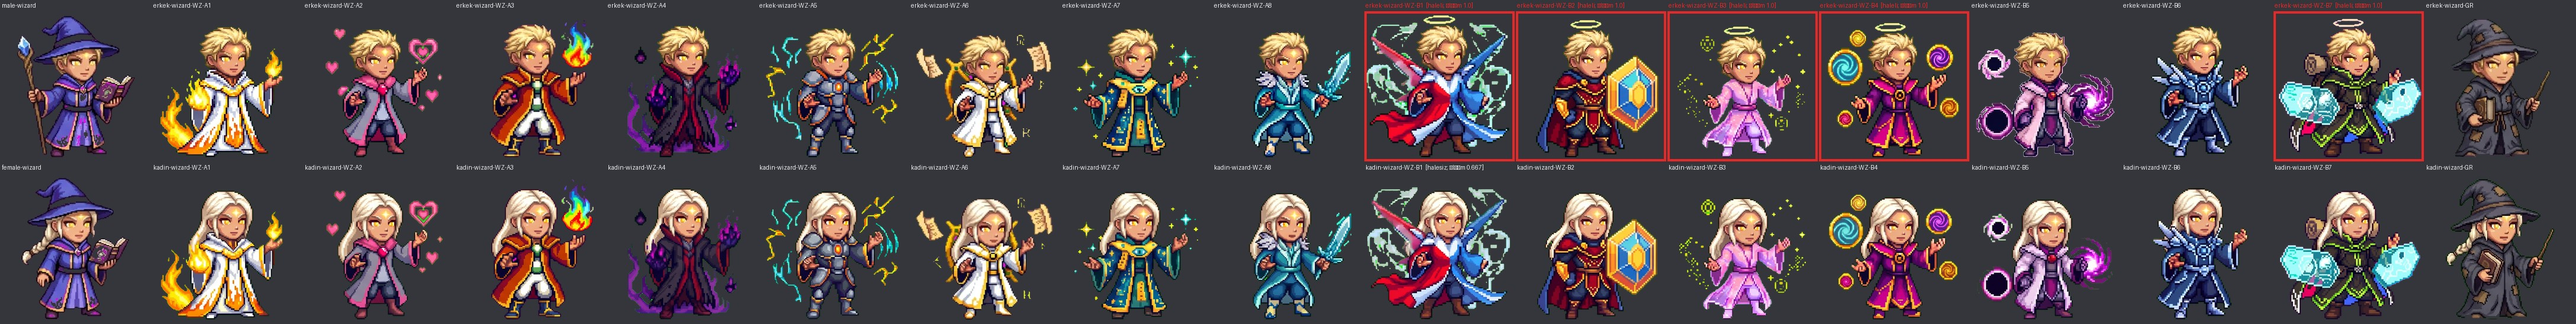
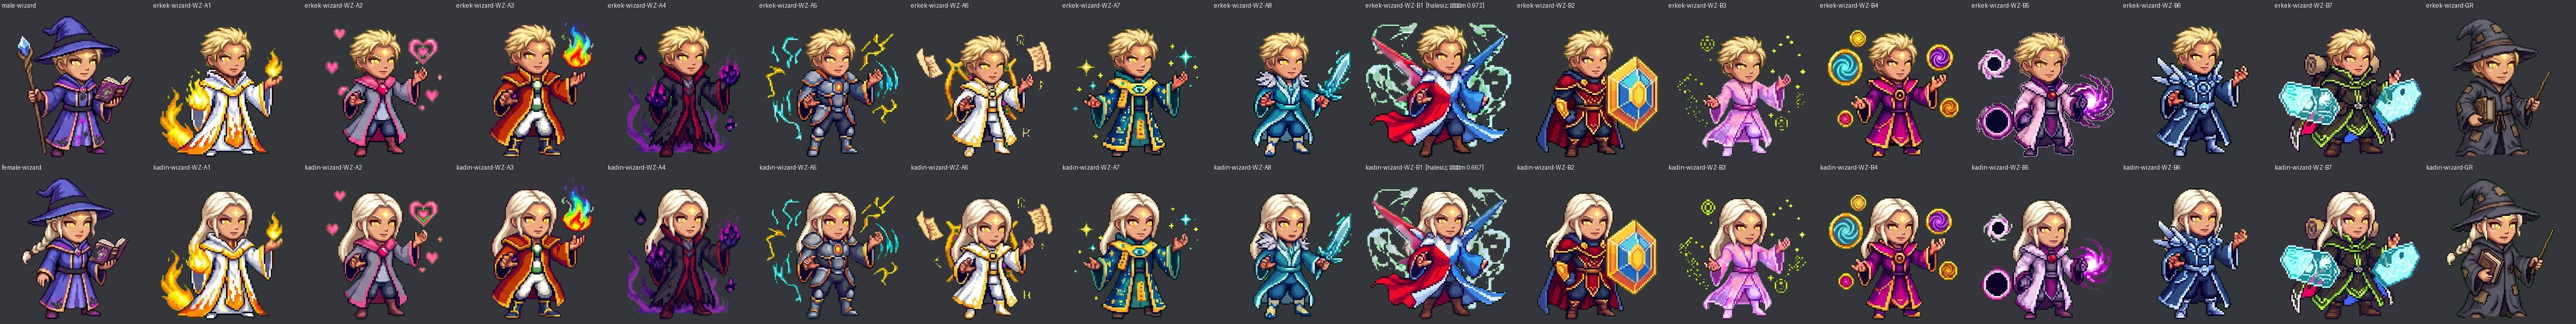
Erkek Celestial Wizard WZ-B1/B2/B3/B4/B7: 2360265b halesiz hâli uygulandı, B2/B3 çizgi kalıntısı silindi
Varyantın opak pikselleri mevcut jetonla aynı; yalnız baş üstü bölgesi alındı (scripts/wzb-halesiz.py), B2 4 px ve B3 17 px hale çizgisi ile B1/B7 tek piksel kırıntı silindi. Düzeltme önceliğiyle deftere yazıldı, taç bekleme listesinden çıktı, taç konumu yeniden üretildi. Celestial jetonlarında ten maskesi yok (üretilecek maske yok). Önce/sonra 4x docs/sabah/celestial-final/wzb-duzeltme/. Final: 290 Celestial jetonun hepsi halesiz.

Claude-Session: https://claude.ai/code/session_01VVQfWy7Gxh4PHzxq6UKvoy

diff --git a/scripts/wzb-halesiz.py b/scripts/wzb-halesiz.py
@@ -1,0 +1,40 @@
+#!/usr/bin/env python3
+"""Erkek Celestial Wizard WZ-B1/B2/B3/B4/B7 halesiz uygulama (2026-11-19). Kaynak: git 2360265b public/characters/halesiz/<ad>.webp (KQ6-12
+programla hale silinmiş varyant; opak pikseller mevcut jetonla bire bir aynı, fark yalnız başın üstü). Uygulama: mevcut jeton + varyantın
+baş tepesi + 25 satıra kadarki kısmı; başın üstünde gövdeye bağlı olmayan küçük hale kalıntıları (B2: 4 px, B3: 17 px çizgi; B1/B7 tek piksel kırıntı)
+KALINTI listesindeki kutularla silinir. Öncelik defterine `duzeltme` (dosya git:2360265b) yazılır. Önce/sonra 4× docs/sabah/celestial-final/wzb-duzeltme/.
+`python3 scripts/wzb-halesiz.py`"""
+import importlib.util, io, os, subprocess
+import numpy as np
+from PIL import Image, ImageDraw
+from scipy import ndimage as ndi
+_s = importlib.util.spec_from_file_location('cc', 'scripts/cc-kesim.py'); cc = importlib.util.module_from_spec(_s); _s.loader.exec_module(cc)
+REF = '2360265b'
+# jeton kodu → silinecek kalıntı kutuları (x0, y0, x1, y1; yalnız gövdeye bağlı olmayan pikseller)
+KALINTI = {'B1': [(146, 12, 151, 17)], 'B2': [(110, 26, 121, 33)], 'B3': [(112, 37, 136, 44)], 'B4': [], 'B7': [(105, 19, 110, 24)]}
+OUT = 'docs/sabah/celestial-final/wzb-duzeltme'
+
+def main():
+    os.makedirs(OUT, exist_ok=True)
+    L = cc.ledger(); rep = {'adim': 'wzb', 'yazilan': [], 'ezilmedi': []}
+    for c, boxes in KALINTI.items():
+        n = f'celestial-erkek-wizard-WZ-{c}'
+        v = np.array(Image.open(io.BytesIO(subprocess.run(['git', 'show', f'{REF}:public/characters/halesiz/{n}.webp'], capture_output=True, check=True).stdout)).convert('RGBA'))
+        cur = np.array(Image.open(f'public/characters/{n}.webp').convert('RGBA'))
+        ys, _ = np.where(cur[..., 3] > 127)
+        cut = int(ys.min()) + 25
+        out = cur.copy(); out[:cut] = v[:cut]
+        al = out[..., 3] > 0
+        lab, k = ndi.label(al, structure=np.ones((3, 3))); sz = ndi.sum(al, lab, range(1, k + 1)); body = lab == 1 + int(np.argmax(sz))
+        for (x0, y0, x1, y1) in boxes:
+            m = np.zeros_like(al); m[y0:y1, x0:x1] = True; m &= al & ~body
+            out[m] = 0
+        cc.write_token(L, n, Image.fromarray(out, 'RGBA'), 'duzeltme', f'git:{REF}', 1, rep)
+        im = Image.new('RGBA', (2048 + 24, 1024 + 28), (52, 54, 60, 255)); d = ImageDraw.Draw(im)
+        for i, (t, lab_) in enumerate([(cur, 'once'), (out, 'sonra (2360265b halesiz + kalinti silindi)')]):
+            im.alpha_composite(Image.fromarray(t, 'RGBA').resize((1024, 1024), Image.NEAREST), (i * 1048, 28)); d.text((i * 1048 + 6, 6), f'{n} {lab_}', fill='white')
+        im.convert('RGB').save(f'{OUT}/{n}.png')
+    cc.save_ledger(L); cc.hold_sync(L); cc.oncelik_rapor(L)
+    print(rep)
+
+if __name__ == '__main__': main()

diff --git a/scripts/celestial-final.py b/scripts/celestial-final.py
@@ -17,11 +17,7 @@ CLASSES = ['barbarian', 'bard', 'cleric', 'druid', 'fighter', 'monk', 'paladin',
 CELL, LAB = 256, 18
 # Görsel kontrol (2026-11-19; 12 sınıf sayfası tam gözden geçirildi, işaretliler 2× büyütülerek): ölçümü düzelten karar. Yoksa ölçüm geçerli.
 GORSEL = {
-    'celestial-erkek-wizard-WZ-B1': ('haleli', 'altın halka başın üstünde (sayfa 30 yok, hiç işlenmedi)'),
-    'celestial-erkek-wizard-WZ-B2': ('haleli', 'altın halka başın üstünde (sayfa 30 yok)'),
-    'celestial-erkek-wizard-WZ-B3': ('haleli', 'altın halka başın üstünde (sayfa 30 yok)'),
-    'celestial-erkek-wizard-WZ-B4': ('haleli', 'altın halka başın üstünde (sayfa 30 yok)'),
-    'celestial-erkek-wizard-WZ-B7': ('haleli', 'altın halka başın üstünde (sayfa 30 yok)'),
+    'celestial-erkek-wizard-WZ-B1': ('halesiz', 'yanlış alarm: rüzgâr parçacıkları (2360265b halesiz uygulandı)'),
     'celestial-male-bard': ('halesiz', 'yanlış alarm: şapka tüyü'),
     'celestial-female-bard': ('halesiz', 'yanlış alarm: şapka tüyü'),
     'celestial-kadin-wizard-WZ-B1': ('halesiz', 'yanlış alarm: rüzgâr parçacıkları'),

diff --git a/docs/sabah/celestial-final/haleli-liste.md b/docs/sabah/celestial-final/haleli-liste.md
@@ -2,18 +2,14 @@
 
 Üretici `scripts/celestial-final.py`, ölçüm `scripts/hale-olcum.py`. 290 Celestial jeton. Sınıf sayfaları bu klasörde (`<sınıf>.jpg`; kırmızı = haleli, turuncu = belirsiz), bütün ölçüm `olcum.csv`.
 
-**Sonuç (ölçüm + görsel kontrol): halesiz 285, haleli 5, belirsiz 0.** Yalnız ölçüm: halesiz 281, haleli 9, belirsiz 0.
+**Sonuç (ölçüm + görsel kontrol): halesiz 290, haleli 0, belirsiz 0.** Yalnız ölçüm: halesiz 285, haleli 5, belirsiz 0.
 
 Ölçüm: başın tepesinde/üstünde ince elips halka ya da ince yay (skor 0–1; ≥ 0,5 haleli, 0,2–0,5 belirsiz). Duyarlılık sınırlı (kalibrasyonda bilinen halelerin ≈ %65’i), bu yüzden 12 sınıf sayfası ayrıca gözle tarandı; gözle görülen ek hale yok.
 
 | Jeton | Sonuç | Ölçüm (skor, yöntem, ölçüler) | Görsel kontrol | Kazanan kaynak | Taç |
 |---|---|---|---|---|---|
-| celestial-erkek-wizard-WZ-B1 | **haleli** | haleli 1.0 (sutun; yay_en 40, yay_y 8, kalinlik 4, bosluk 6, ust 8) | altın halka başın üstünde (sayfa 30 yok, hiç işlenmedi) | CC öncesi (değişmedi) | yok (bekleyen) |
-| celestial-erkek-wizard-WZ-B2 | **haleli** | haleli 1.0 (sutun; yay_en 41, yay_y 16, kalinlik 4, bosluk 6, ust 16) | altın halka başın üstünde (sayfa 30 yok) | CC öncesi (değişmedi) | yok (bekleyen) |
-| celestial-erkek-wizard-WZ-B3 | **haleli** | haleli 1.0 (sutun; yay_en 38, yay_y 27, kalinlik 4, bosluk 6, ust 27) | altın halka başın üstünde (sayfa 30 yok) | CC öncesi (değişmedi) | yok (bekleyen) |
-| celestial-erkek-wizard-WZ-B4 | **haleli** | haleli 1.0 (sutun; yay_en 38, yay_y 21, kalinlik 4, bosluk 6, ust 21) | altın halka başın üstünde (sayfa 30 yok) | CC öncesi (değişmedi) | yok (bekleyen) |
-| celestial-erkek-wizard-WZ-B7 | **haleli** | haleli 1.0 (sutun; yay_en 40, yay_y 14, kalinlik 4, bosluk 6, ust 14) | altın halka başın üstünde (sayfa 30 yok) | CC öncesi (değişmedi) | yok (bekleyen) |
 | celestial-erkek-warlock-WL-8 | **halesiz** | haleli 0.75 (sutun; yay_en 18, yay_y 8, kalinlik 2, bosluk 7, ust 8) | yanlış alarm: Gulyabani saç telleri (taç yok kararı ayrı) | yeni (warlock-male-celestial.jpg / 8) | yok (bekleyen) |
+| celestial-erkek-wizard-WZ-B1 | **halesiz** | haleli 0.972 (halka; en 34, boy 6, kalinlik 1.0, doluluk 0.27, ic_saydam 0.5, ust_saydam 1.0, kapsama 0.72, ust_yay 0.97, px 56, y 23, ust 20) | yanlış alarm: rüzgâr parçacıkları (2360265b halesiz uygulandı) | duzeltme (git:2360265b / 1) | çizilir |
 | celestial-female-bard | **halesiz** | haleli 1.0 (sutun; yay_en 27, yay_y 22, kalinlik 4, bosluk 10, ust 10) | yanlış alarm: şapka tüyü | taban (hale-gemini-sayfa-04.png / 7) | çizilir |
 | celestial-kadin-wizard-WZ-B1 | **halesiz** | haleli 0.667 (halka; en 38, boy 7, kalinlik 1.0, doluluk 0.15, ic_saydam 0.43, ust_saydam 1.0, kapsama 0.58, ust_yay 0.83, px 40, y 27, ust 25) | yanlış alarm: rüzgâr parçacıkları | CC öncesi (değişmedi) | çizilir |
 | celestial-male-bard | **halesiz** | haleli 1.0 (sutun; yay_en 25, yay_y 23, kalinlik 4, bosluk 2, ust 10) | yanlış alarm: şapka tüyü | taban (hale-gemini-sayfa-03.png / 5) | çizilir |

diff --git a/docs/sabah/celestial-oncelik.md b/docs/sabah/celestial-oncelik.md
@@ -27,4 +27,4 @@ Kural (`scripts/cc-kesim.py` `ONCELIK`, `write_token`): aynı jeton kimliği iç
 | celestial-kadin-warlock-WL-3 | taban → duzeltme | duzeltme | hale-gemini-duzeltme-sayfa-03.jpg / 6 |
 | celestial-kadin-warlock-WL-4 | taban → duzeltme | duzeltme | hale-gemini-duzeltme-sayfa-01.jpg / 7 |
 
-Tek kaynaktan yazılan Celestial jeton: 141.
+Tek kaynaktan yazılan Celestial jeton: 146.
